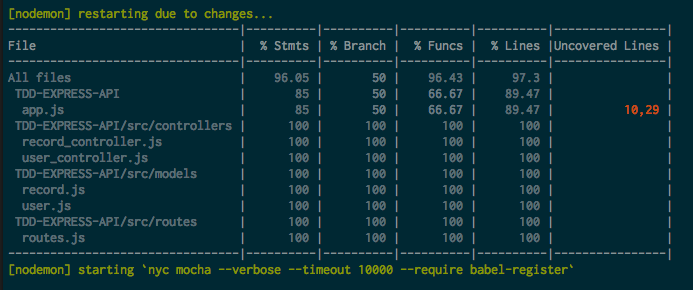
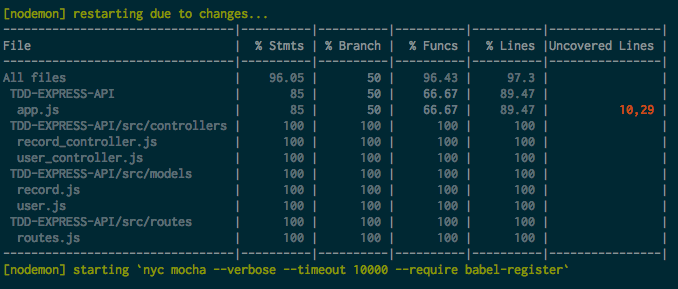
update readme images

diff --git a/test/controllers-test/record_routes_test.js b/test/controllers-test/record_routes_test.js
@@ -5,7 +5,7 @@ const app = require('../../app');
 const Record = mongoose.model('Record');
 
 describe('Records Controller', () => {
-  it('handles a GET request to /api', (done) => {
+  it('GET request to /api returns text', (done) => {
     request(app)
       .get('/api/')
       .end((err, res) => {
@@ -14,7 +14,7 @@ describe('Records Controller', () => {
       });
   });
 
-  it('should GET all the records', (done) => {
+  it('GET request to /api/records gets all the records', (done) => {
     const record = new Record({ artist: "Mad Proffesor", title: "Ooh Yeah", genre: "Reggae", price: 1.99 })
     record.save().then(() =>{
       request(app)
@@ -27,7 +27,7 @@ describe('Records Controller', () => {
     });
   });
 
-  it('Post request to /api/records creates new record', (done) => {
+  it('POST request to /api/records creates new record', (done) => {
     Record.count().then(count => {
       request(app)
         .post('/api/records')
@@ -41,7 +41,7 @@ describe('Records Controller', () => {
       });
   });
 
-  it('Get request to /api/records/:id finds record', (done) => {
+  it('GET request to /api/records/:id finds record', (done) => {
     const record = new Record({ artist: "Mad Proffesor", title: "Ooh Yeah", genre: "Reggae", price: 1.99 })
     record.save().then(() =>{
       request(app)
@@ -53,7 +53,7 @@ describe('Records Controller', () => {
     });
   });
 
-  it('Put request to /api/records/:id edits record', (done) => {
+  it('PUT request to /api/records/:id edits record', (done) => {
     const record = new Record({ artist: "Mad Proffesor", title: "Ooh Yeah", genre: "Reggae", price: 1.99 })
 
     record.save().then(() =>{
@@ -70,7 +70,7 @@ describe('Records Controller', () => {
     });
   });
 
-  it('Delete request to /api/records/:id deletes record', done => {
+  it('DELETE request to /api/records/:id deletes record', done => {
     const record = new Record({ artist: "Mad Proffesor", title: "Ooh Yeah", genre: "Reggae", price: 1.99 })
 
     record.save().then(() => {

diff --git a/test/record-model-test/record-update-test.js b/test/record-model-test/record-update-test.js
@@ -21,17 +21,6 @@ describe('Updating records', () => {
       })
   });
 
-  // it('model class can update', (done) => {
-  //   Record.update({ artist: 'Mad Proffesor'}, { artist: 'Alex Higgins'})
-  //     .then(() => {
-  //       Record.findOne({ artist: 'Alex Higgins' })
-  //         .then(record => {
-  //           assert(record.artist === 'Alex Higgins')
-  //           done();
-  //         })
-  //     })
-  // });
-
   it('model class can update one record', (done) => {
     Record.findOneAndUpdate({ artist: 'Mad Proffesor'}, { artist: 'Alex Higgins'})
       .then(() => {

diff --git a/readme.md b/readme.md
@@ -2,8 +2,30 @@
 
 An exercise in test driven development, focusing on approaches to testing CRUD routes and MongoDB / Mongoose methods.
 
-The database consists of two tables: Users and Records. It is possible to create, find, update and delete from both tables using API requests. 
+The basic premise is an online record store backend with an app which connects to a database to store user and product data. The database consists of two tables: users and records. It is possible to create, find, update and delete from both tables using API requests. It's my intention in future to develop further tables and connect the whole thing to a React app I am developing in parallel.
 
-While the functionally of the program is relatively simple, test coverage is 100% in almost every file.
+Mocha is used as the testing framework here. Tests run on both the API routes and Mongoose's direct interactions with the database, ensuring that validations work correctly along with create, show, find, delete and update commands. Test coverage is 100% on each of the controller and route files.
 
+### To run
+```
+$ git clone https://github.com/joecowton/TDD-EXPRESS-API.git
+$ cd TDD-EXPRESS-API
+$ npm install
+$ npm start
+```
+### To test
+```
+$ npm test
+```
+### Test coverage
 ![App](images/1.png)
+
+### User Schema with validation
+
+![App](images/2.png)
+
+### Validation assertions
+![App](images/3.png)
+
+### API route testing
+![App](images/4.png)
